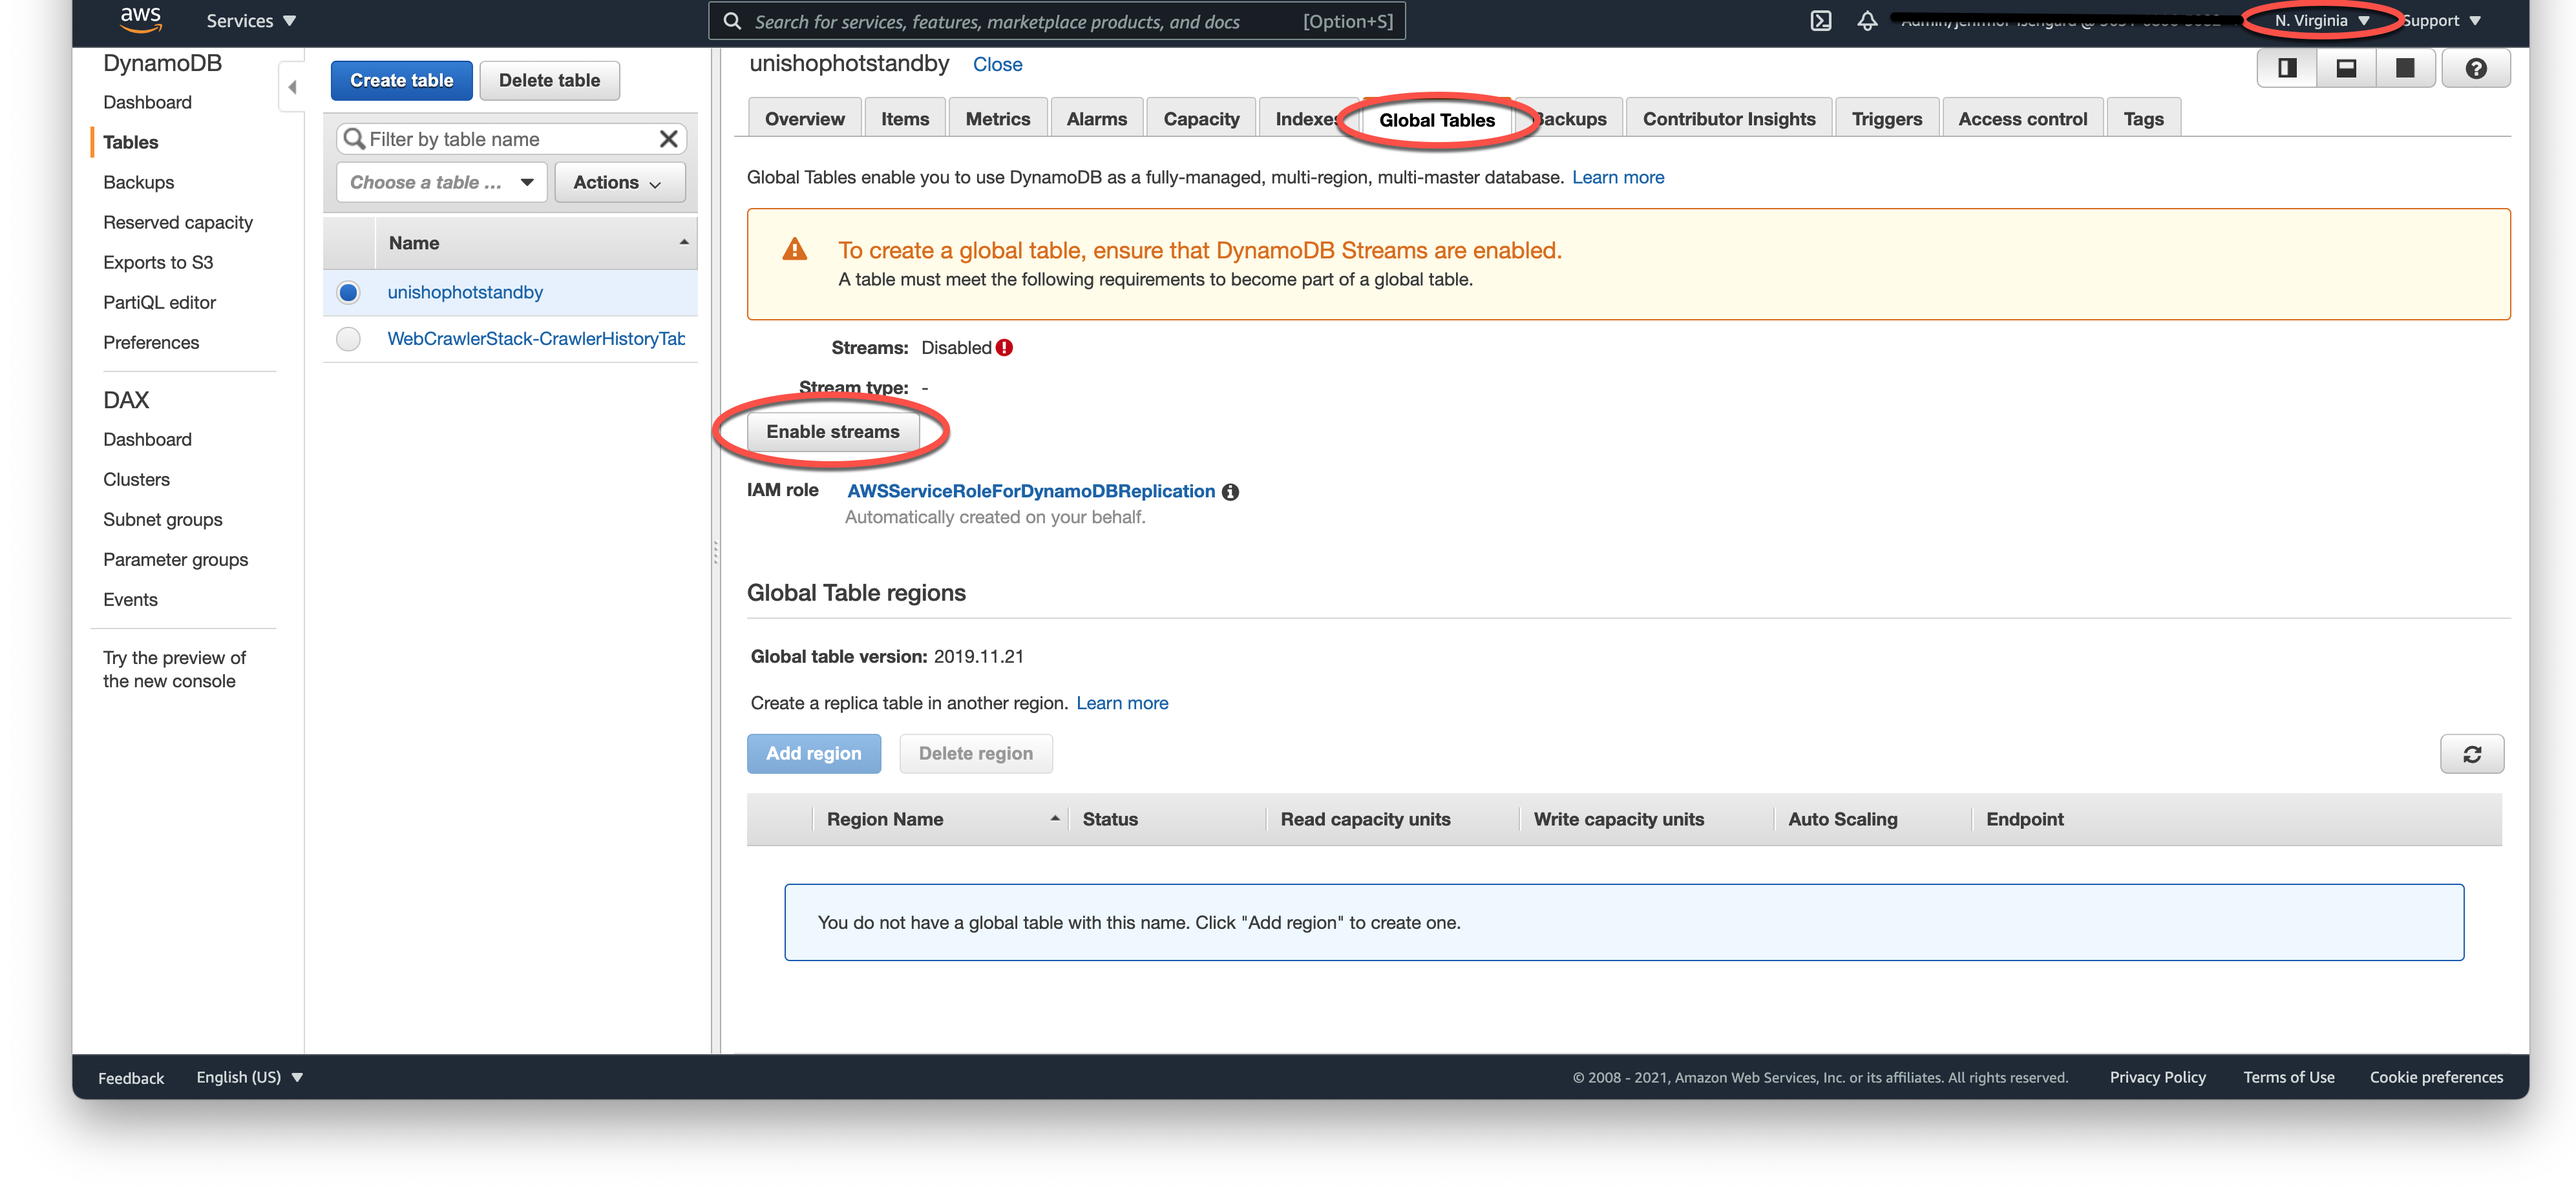
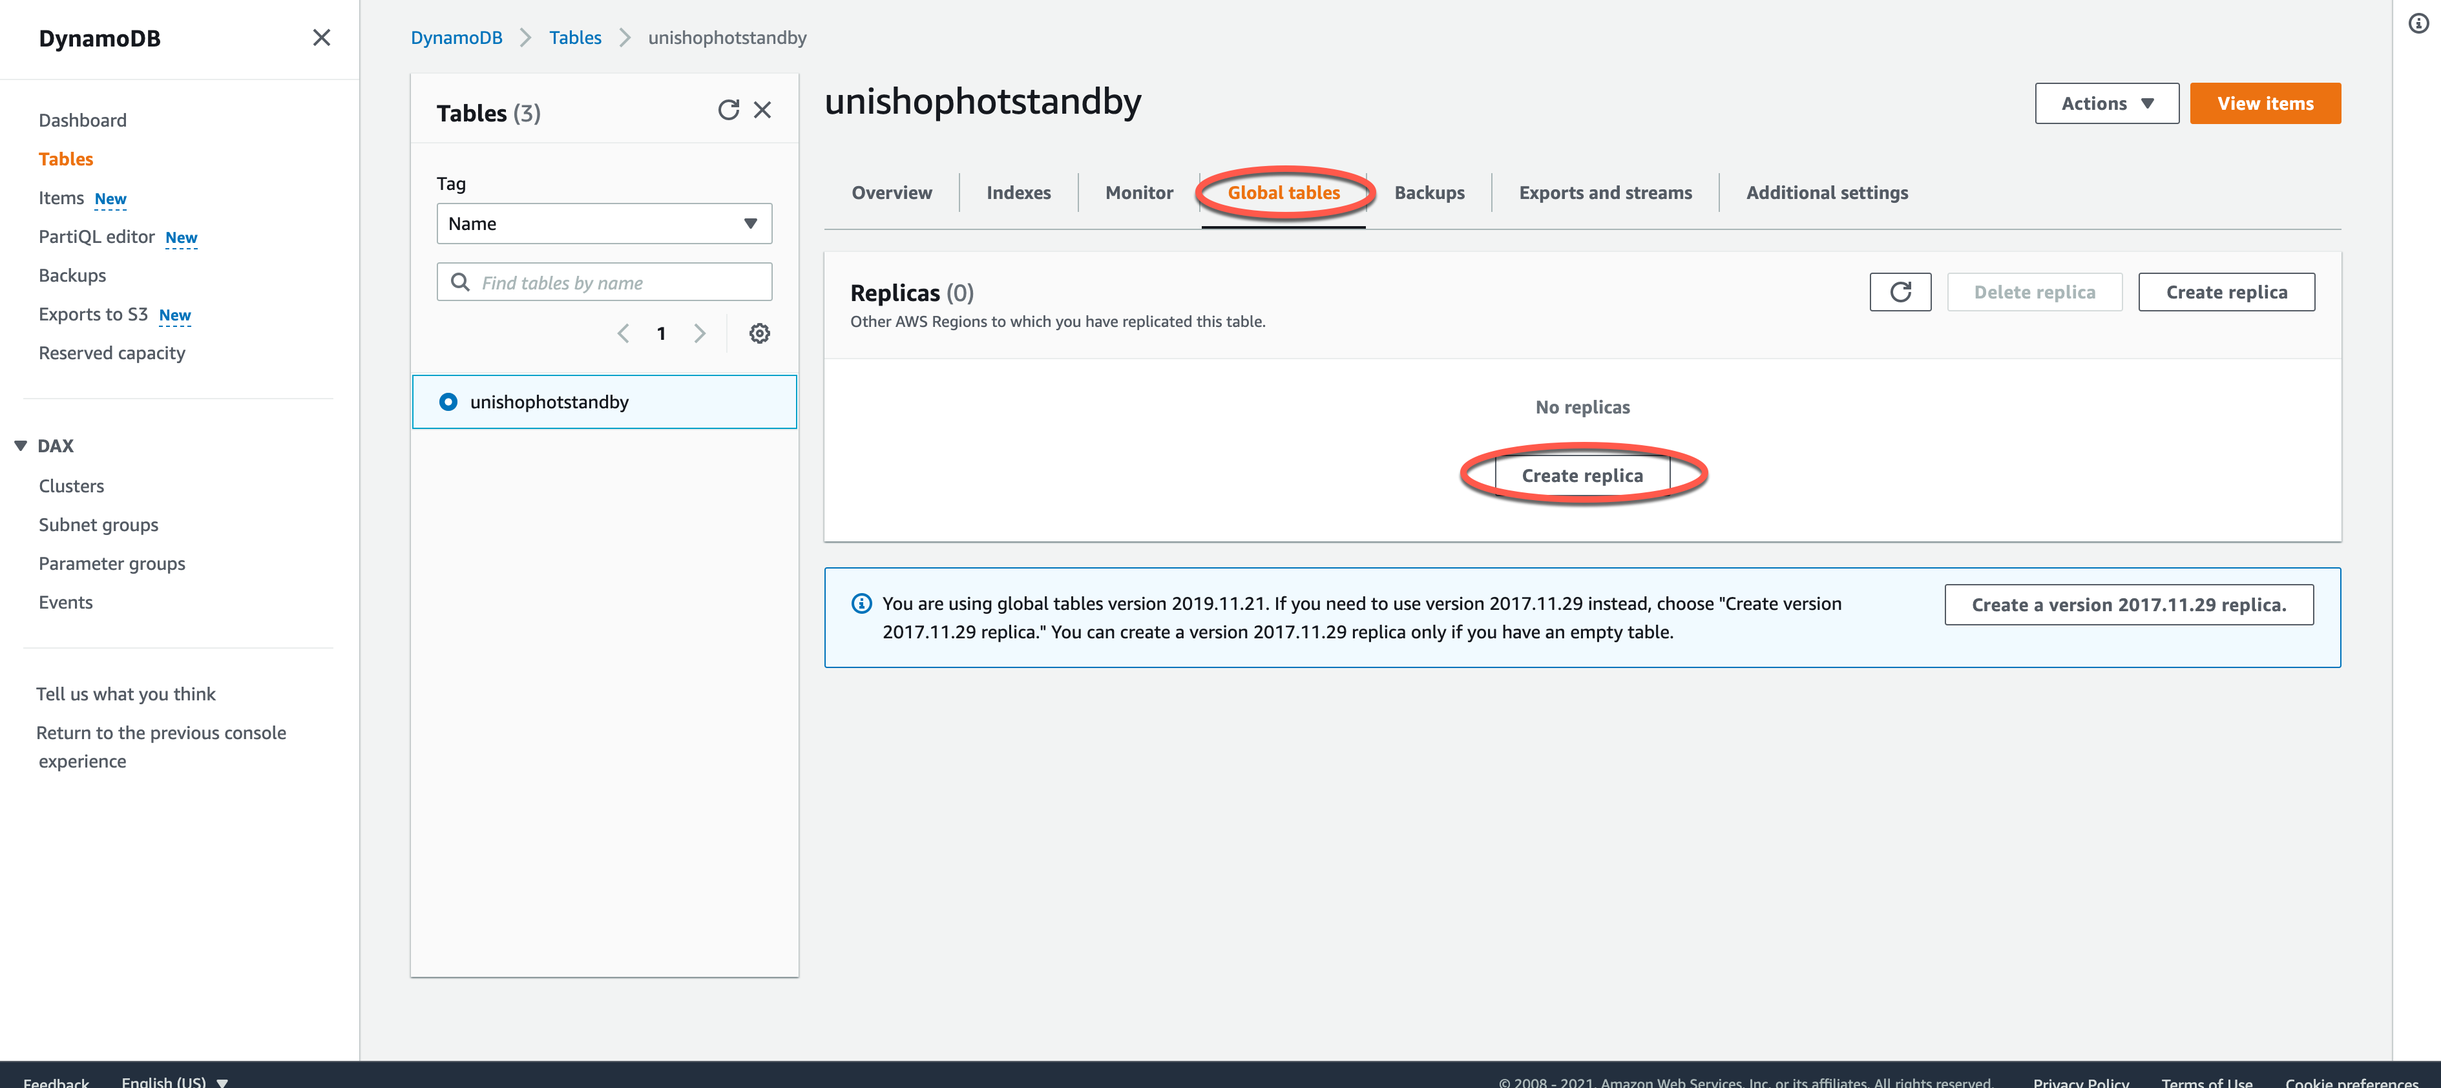
Change instructions and screenshots to reflect new DynamoDB UI

diff --git a/content/Reliability/Disaster Recovery/Workshop_4/prerequisites/primary-region/_index.en.md b/content/Reliability/Disaster Recovery/Workshop_4/prerequisites/primary-region/_index.en.md
@@ -58,24 +58,16 @@ We are going to configure DynamoDB global tables replicating from **AWS Region N
 
 {{< img dd-3.png >}}
 
-2.4 Under the **Global Tables** table, click the **Enable streams** button.
+2.4 Under the **Global Tables** table, click the **Create replica** button.
 
 {{< img dd-4.png >}}
 
-2.5 On the **Manage Stream** dialog, click the **Enable** button.
+2.5 Select the **US West (N. California)** region under Available replication Region, and then click the **Create replica** button.
 
 {{< img dd-5.png >}}
 
-2.5 Next, click the **Add region** button.
+2.5 Wait for the **US WEST (N. California)** region's status to be **Active**.
 
 {{< img dd-6.png >}}
-
-2.6 On the **Add replica to global table** dialog, select the **US West (N. California)** region, and then click the **Create replica** button.
-
-{{< img dd-7.png >}}
-
-2.7 Wait for the **US EAST (N. Virginia)** and **US WEST (N. California)** region's status to be **Active**.
-
-{{< img dd-8.png >}}
 
 ## Congragulations!  Your Primary Region and DynamoDB Global Tables are working!
